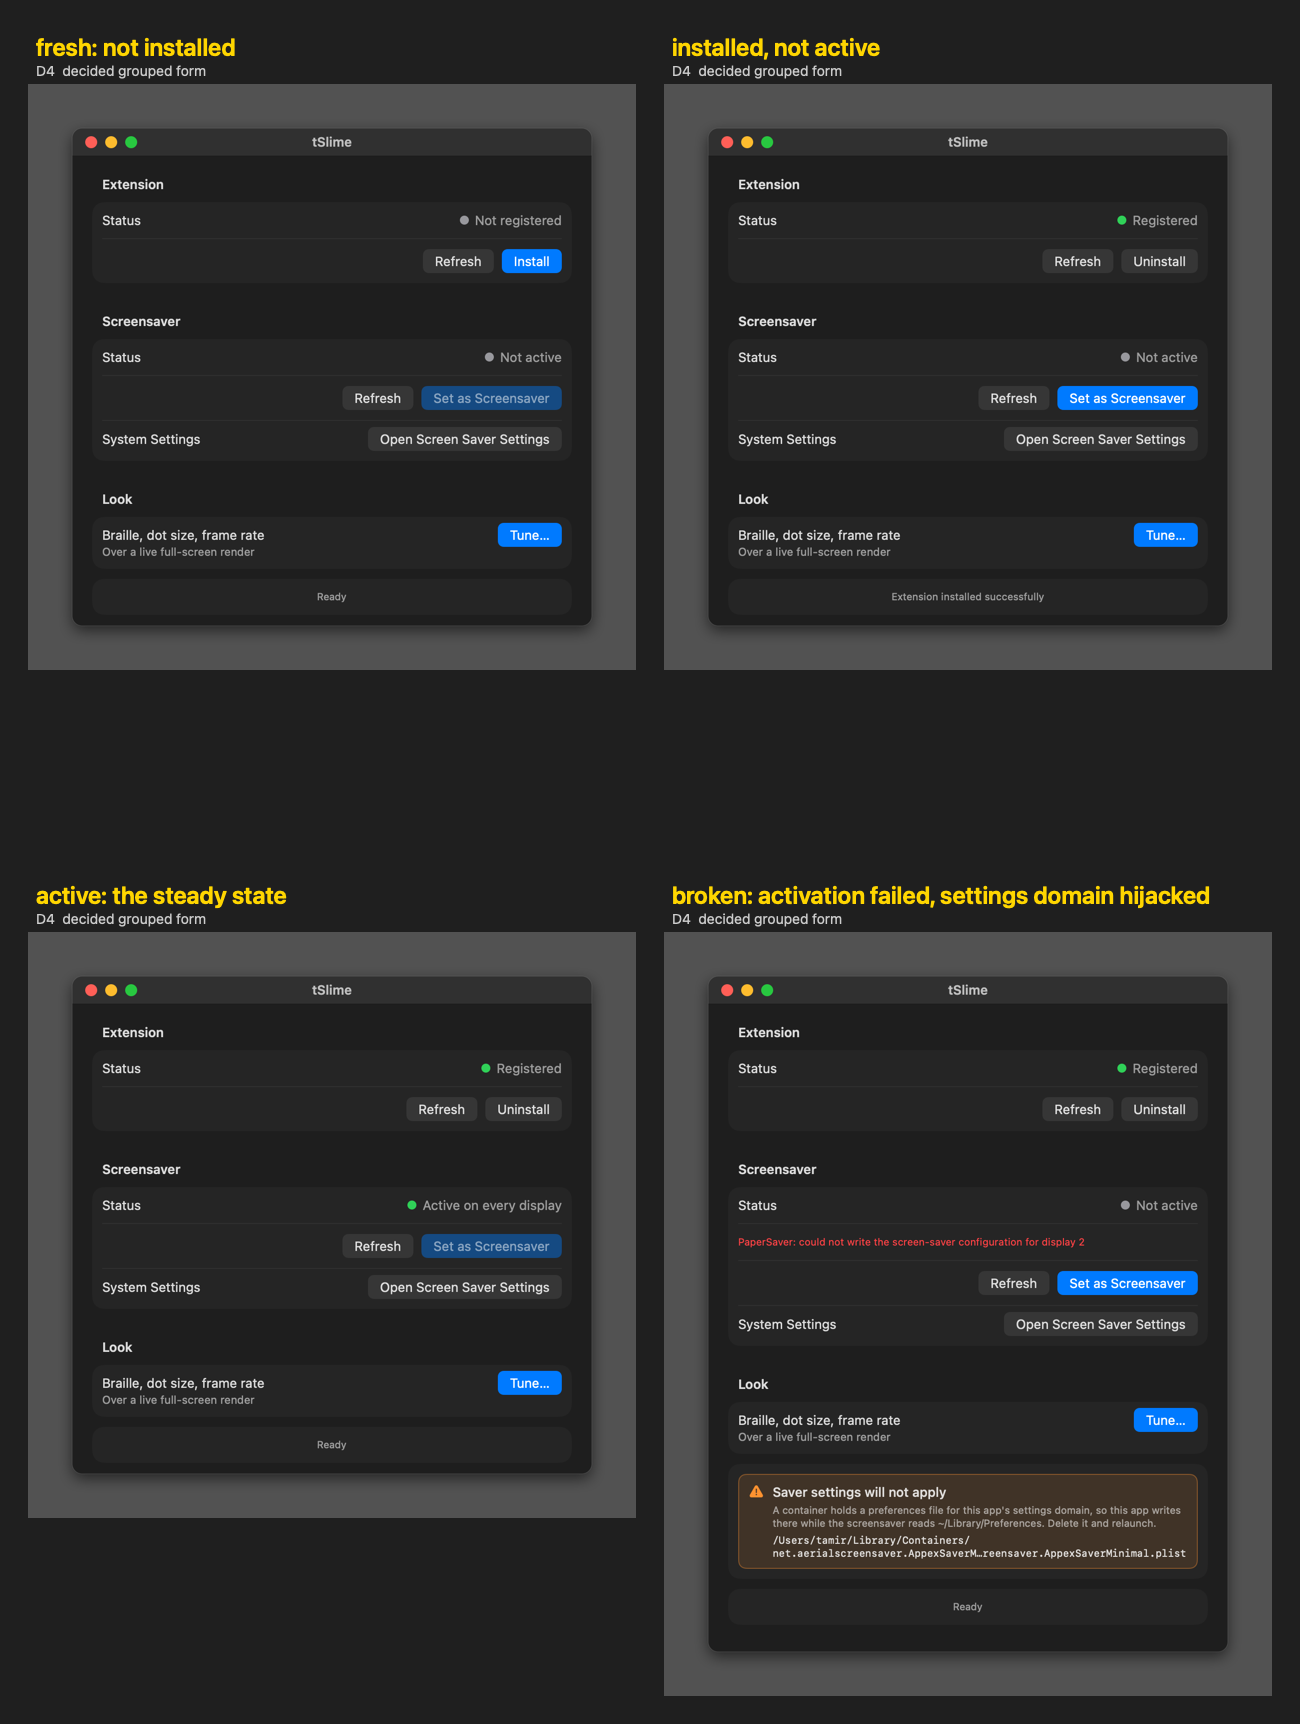
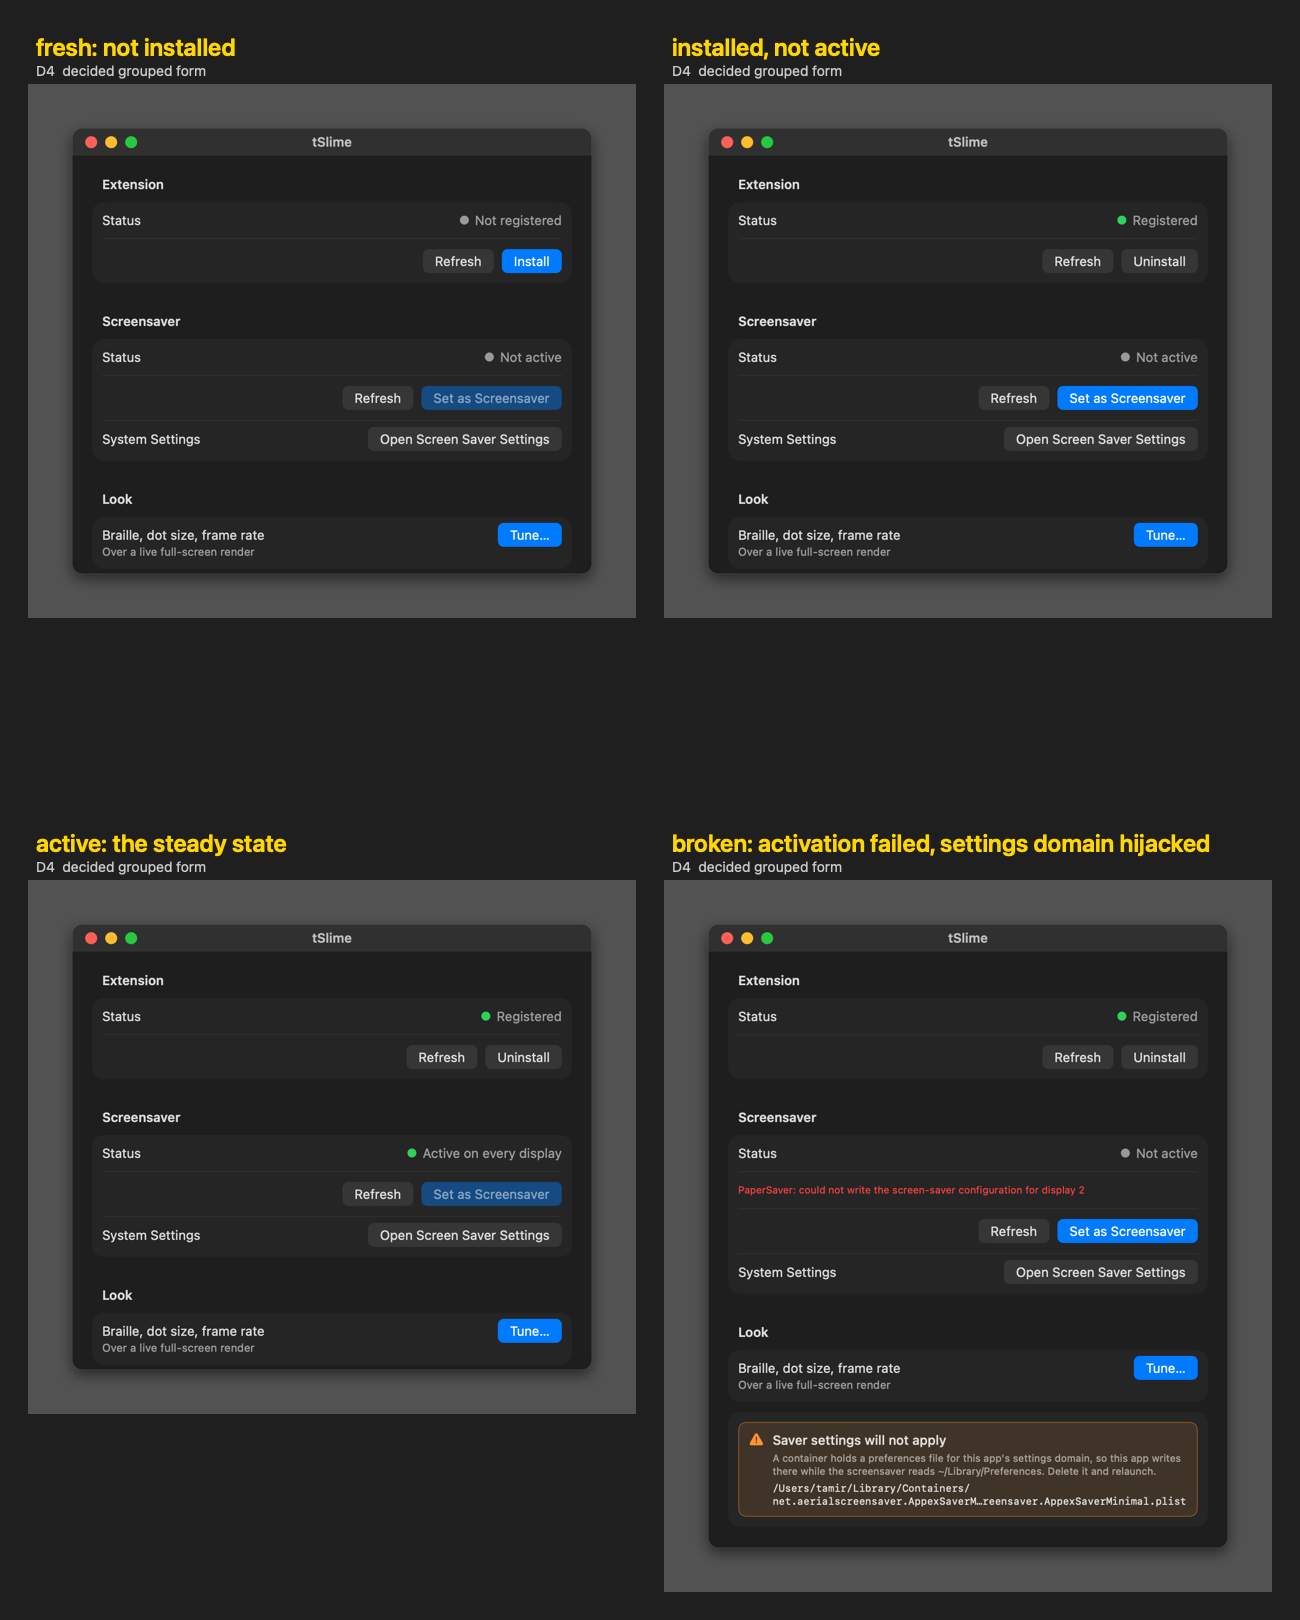
Prototype: D4 without the status caption is the decided window (#32)

diff --git a/prototype/app-look/AppLook.swift b/prototype/app-look/AppLook.swift
@@ -1159,19 +1159,16 @@ struct DecidedGroupedForm: View {
             if let plist = s.hijackedPlist {
                 Section { HijackBanner(plist: plist).listRowInsets(EdgeInsets()) }
             }
-            Section {
-                Text(s.statusMessage).font(.caption).foregroundStyle(.secondary)
-                    .frame(maxWidth: .infinity, alignment: .center)
-                    .listRowBackground(Color.clear)
-            }
         }
         .formStyle(.grouped)
         .frame(width: 520, height: height)
     }
 }
 
+// Decided (2026-09-20): D4 without the status caption at the foot — the
+// dots already say what it said, and "Ready" said nothing.
 func decidedFormHeight(_ s: AppState) -> CGFloat {
-    var h: CGFloat = 470
+    var h: CGFloat = 418
     if s.installError != nil { h += 28 }
     if s.activationError != nil { h += 28 }
     if s.hijackedPlist != nil { h += 150 }
@@ -1244,7 +1241,7 @@ func sheetOverSaver(_ stub: Stub) -> AnyView {
 
 let round2: [Candidate] = [
     Candidate(key: "D4-decided-grouped", title: "D4  decided grouped form",
-              summary: "the native grouped form with the decided edits · the control for the range",
+              summary: "the native grouped form with the decided edits, no status caption · the verdict",
               windowTitle: "tSlime",
               make: { stub, sc in AnyView(DecidedGroupedForm(stub: stub, height: decidedFormHeight(sc.state))) }),
     Candidate(key: "D1-label-grid", title: "D1  label grid",
